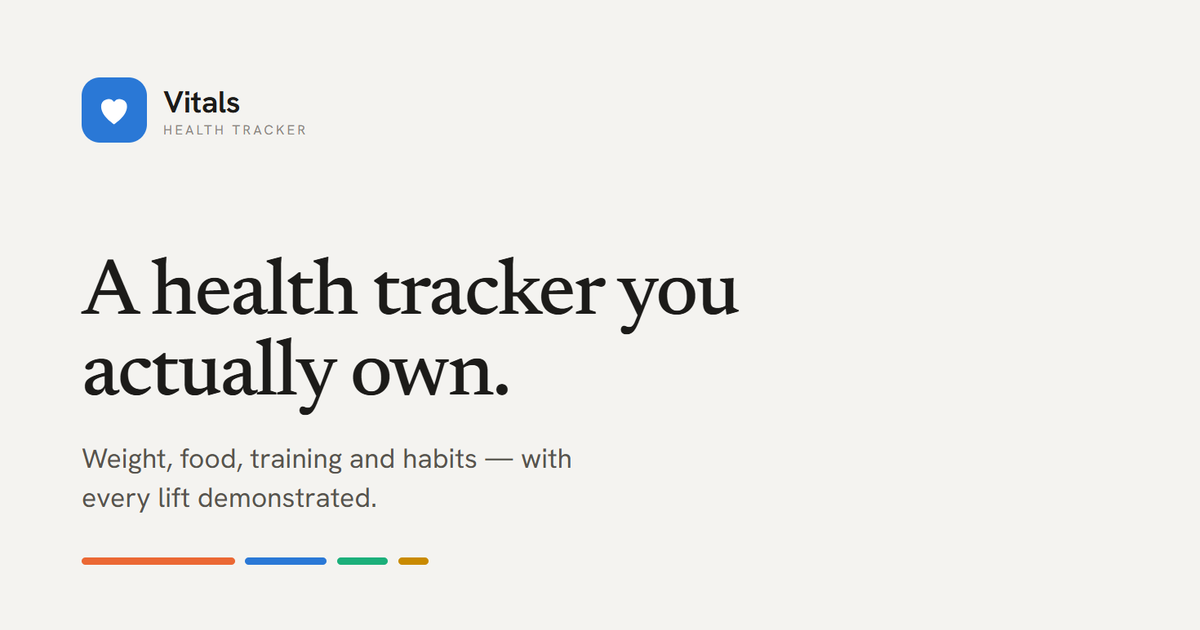
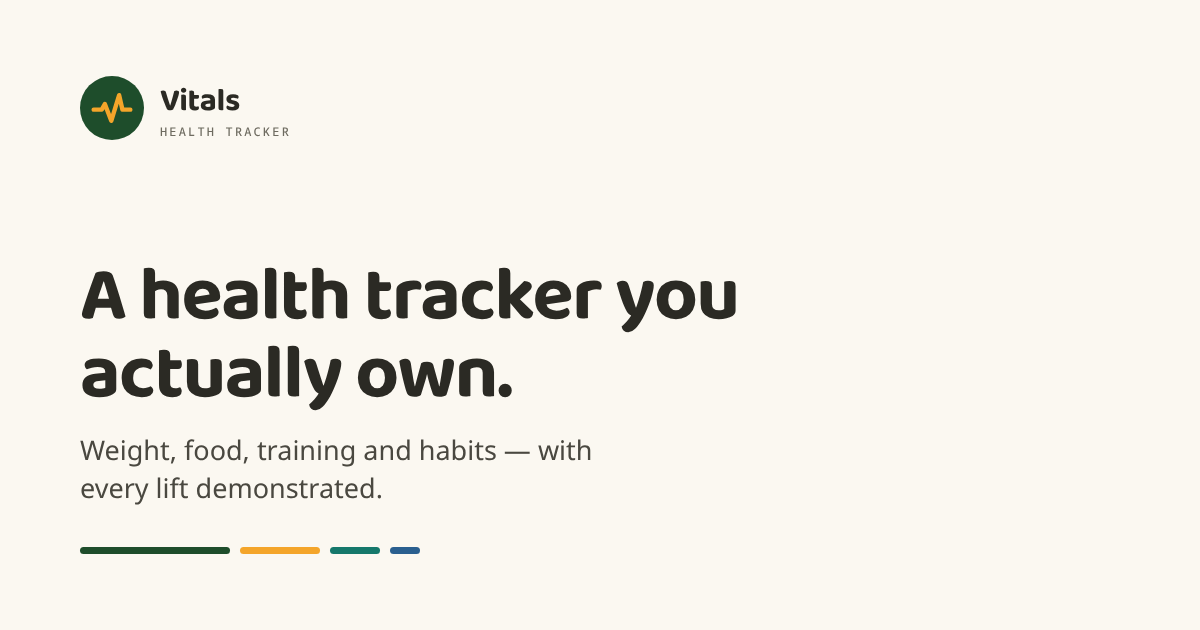
design: use the pulse mark in the app, landing pages and share card
Swaps the heart badge on the rail, sign-in and onboarding screens and the
site headers for the new mark, and regenerates og.png from og-card.html.

diff --git a/scripts/og-card.html b/scripts/og-card.html
@@ -37,7 +37,7 @@
         background: #1e4d2b; color: #f4a52a;
         display: grid; place-items: center;
       }
-      .mark svg { width: 38px; height: 38px; }
+      .mark svg { width: 44px; height: 44px; }
       .name { font-family: 'Baloo Chettan 2', system-ui, sans-serif; font-size: 32px; font-weight: 700; letter-spacing: -0.01em; }
       .sub {
         font-family: 'Noto Sans Mono', monospace;
@@ -75,8 +75,8 @@
     <div class="card">
       <div class="brand">
         <span class="mark">
-          <svg viewBox="0 0 24 24" fill="currentColor">
-            <path d="M12 21c-1-.7-8-5.4-8-11a4.5 4.5 0 0 1 8-2.9A4.5 4.5 0 0 1 20 10c0 5.6-7 10.3-8 11z" />
+          <svg viewBox="0 0 24 24" fill="none" stroke="currentColor" stroke-width="2.4" stroke-linecap="round" stroke-linejoin="round">
+            <path d="M2 12.9h4.4l1.7-3.1 3.5 9.2 4.3-14 1.8 7.9H22" />
           </svg>
         </span>
         <span>

diff --git a/src/App.tsx b/src/App.tsx
@@ -8,7 +8,7 @@ import {
   IconBody,
   IconFood,
   IconHabits,
-  IconHeart,
+  IconVitals,
   IconMoon,
   IconToday,
   IconTrainer,
@@ -149,7 +149,7 @@ function VerifyPanel() {
       <main className="auth-card">
         <div className="auth-brand">
           <span className="brand-mark" aria-hidden="true">
-            <IconHeart />
+            <IconVitals />
           </span>
           <div className="brand-text">
             <span className="brand-name">Vitals</span>
@@ -346,7 +346,7 @@ export default function App() {
       <nav className="sidebar" aria-label="Sections">
         <div className="brand">
           <span className="brand-mark" aria-hidden="true">
-            <IconHeart />
+            <IconVitals />
           </span>
           <span className="brand-text">
             <span className="brand-name">Vitals</span>

diff --git a/src/pages/Onboarding.tsx b/src/pages/Onboarding.tsx
@@ -1,7 +1,7 @@
 import { useState, type FormEvent } from 'react';
 import { useHealth } from '../state/HealthProvider';
 import { Field, Segmented } from '../components/ui';
-import { IconCheck, IconHeart } from '../components/icons';
+import { IconCheck, IconVitals } from '../components/icons';
 import { uid } from '../lib/calc';
 import { todayISO } from '../lib/dates';
 import { labels, round, toCanonical, toDisplay } from '../lib/units';
@@ -105,7 +105,7 @@ export default function Onboarding() {
       <main className="auth-card onboard-card">
         <div className="auth-brand">
           <span className="brand-mark" aria-hidden="true">
-            <IconHeart />
+            <IconVitals />
           </span>
           <div className="brand-text">
             <span className="brand-name">Vitals</span>

diff --git a/src/components/icons.tsx b/src/components/icons.tsx
@@ -18,10 +18,14 @@ function Svg({ className = 'ic', children }: IconProps & { children: React.React
 
 /* --- brand ---------------------------------------------------------------- */
 
-export function IconHeart(props: IconProps) {
+/**
+ * The Vitals mark: a heartbeat trace whose dip and spike form a V. The same
+ * points as public/favicon.svg, scaled into the 24×24 icon box.
+ */
+export function IconVitals(props: IconProps) {
   return (
-    <Svg className={props.className ?? 'ic fill'}>
-      <path d="M12 21c-1-.7-8-5.4-8-11a4.5 4.5 0 0 1 8-2.9A4.5 4.5 0 0 1 20 10c0 5.6-7 10.3-8 11z" />
+    <Svg className={props.className ?? 'ic'}>
+      <path d="M2 12.9h4.4l1.7-3.1 3.5 9.2 4.3-14 1.8 7.9H22" fill="none" />
     </Svg>
   );
 }

diff --git a/src/pages/Login.tsx b/src/pages/Login.tsx
@@ -1,7 +1,7 @@
 import { useState, type FormEvent } from 'react';
 import { useHealth } from '../state/HealthProvider';
 import { Field } from '../components/ui';
-import { IconHeart } from '../components/icons';
+import { IconVitals } from '../components/icons';
 import { missingFirebaseKeys } from '../lib/firebase';
 
 type Mode = 'signin' | 'signup' | 'reset';
@@ -101,7 +101,7 @@ export default function Login() {
       <main className="auth-card">
         <div className="auth-brand">
           <span className="brand-mark" aria-hidden="true">
-            <IconHeart />
+            <IconVitals />
           </span>
           <div className="brand-text">
             <span className="brand-name">Vitals</span>

diff --git a/index.html b/index.html
@@ -109,8 +109,8 @@
     <header class="lp-top">
       <a class="lp-brand" href="/" aria-label="Vitals, home">
         <span class="lp-mark" aria-hidden="true">
-          <svg viewBox="0 0 24 24" fill="currentColor" focusable="false">
-            <path d="M12 21c-1-.7-8-5.4-8-11a4.5 4.5 0 0 1 8-2.9A4.5 4.5 0 0 1 20 10c0 5.6-7 10.3-8 11z" />
+          <svg viewBox="0 0 24 24" fill="none" stroke="currentColor" stroke-width="2.4" stroke-linecap="round" stroke-linejoin="round" focusable="false">
+            <path d="M2 12.9h4.4l1.7-3.1 3.5 9.2 4.3-14 1.8 7.9H22" />
           </svg>
         </span>
         <span class="lp-brand-text">

diff --git a/404.html b/404.html
@@ -38,8 +38,8 @@
     <header class="lp-top">
       <a class="lp-brand" href="/" aria-label="Vitals, home">
         <span class="lp-mark" aria-hidden="true">
-          <svg viewBox="0 0 24 24" fill="currentColor" focusable="false">
-            <path d="M12 21c-1-.7-8-5.4-8-11a4.5 4.5 0 0 1 8-2.9A4.5 4.5 0 0 1 20 10c0 5.6-7 10.3-8 11z" />
+          <svg viewBox="0 0 24 24" fill="none" stroke="currentColor" stroke-width="2.4" stroke-linecap="round" stroke-linejoin="round" focusable="false">
+            <path d="M2 12.9h4.4l1.7-3.1 3.5 9.2 4.3-14 1.8 7.9H22" />
           </svg>
         </span>
         <span class="lp-brand-text">

diff --git a/privacy.html b/privacy.html
@@ -47,8 +47,8 @@
     <header class="lp-top">
       <a class="lp-brand" href="/" aria-label="Vitals, home">
         <span class="lp-mark" aria-hidden="true">
-          <svg viewBox="0 0 24 24" fill="currentColor" focusable="false">
-            <path d="M12 21c-1-.7-8-5.4-8-11a4.5 4.5 0 0 1 8-2.9A4.5 4.5 0 0 1 20 10c0 5.6-7 10.3-8 11z" />
+          <svg viewBox="0 0 24 24" fill="none" stroke="currentColor" stroke-width="2.4" stroke-linecap="round" stroke-linejoin="round" focusable="false">
+            <path d="M2 12.9h4.4l1.7-3.1 3.5 9.2 4.3-14 1.8 7.9H22" />
           </svg>
         </span>
         <span class="lp-brand-text">

diff --git a/terms.html b/terms.html
@@ -47,8 +47,8 @@
     <header class="lp-top">
       <a class="lp-brand" href="/" aria-label="Vitals, home">
         <span class="lp-mark" aria-hidden="true">
-          <svg viewBox="0 0 24 24" fill="currentColor" focusable="false">
-            <path d="M12 21c-1-.7-8-5.4-8-11a4.5 4.5 0 0 1 8-2.9A4.5 4.5 0 0 1 20 10c0 5.6-7 10.3-8 11z" />
+          <svg viewBox="0 0 24 24" fill="none" stroke="currentColor" stroke-width="2.4" stroke-linecap="round" stroke-linejoin="round" focusable="false">
+            <path d="M2 12.9h4.4l1.7-3.1 3.5 9.2 4.3-14 1.8 7.9H22" />
           </svg>
         </span>
         <span class="lp-brand-text">

diff --git a/src/styles.css b/src/styles.css
@@ -420,9 +420,9 @@ a {
 }
 
 .brand-mark .ic {
-  width: 20px;
-  height: 20px;
-  stroke-width: 2;
+  width: 22px;
+  height: 22px;
+  stroke-width: 2.4;
 }
 
 /* On the rail the wordmark is redundant — the badge is the wordmark. It comes

diff --git a/src/landing/landing.css b/src/landing/landing.css
@@ -168,8 +168,8 @@ a {
 }
 
 .lp-mark svg {
-  width: 20px;
-  height: 20px;
+  width: 24px;
+  height: 24px;
 }
 
 .lp-brand-text {
